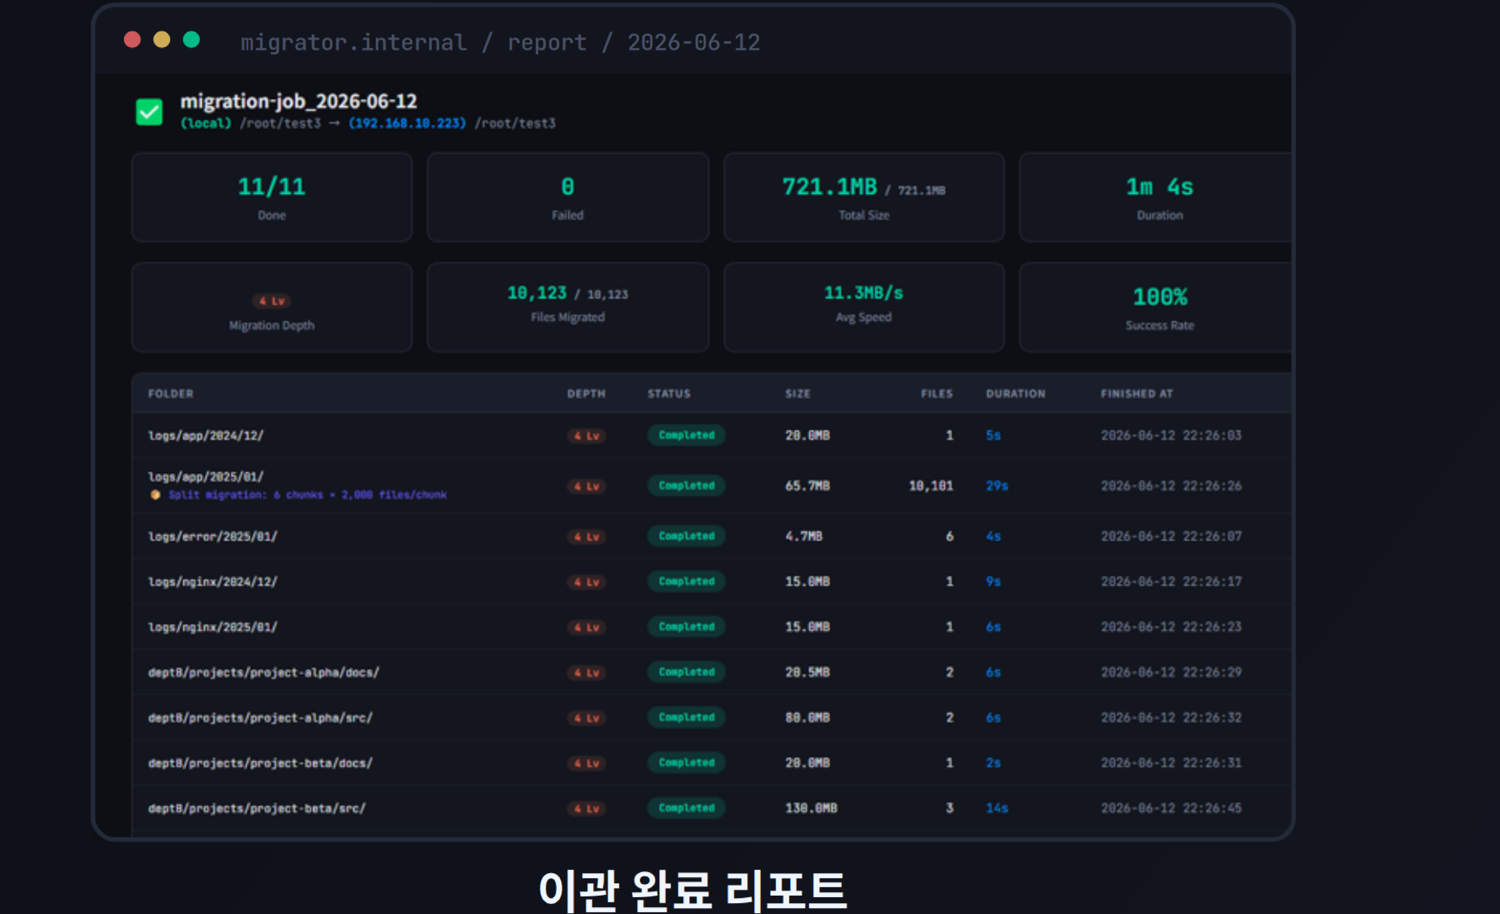
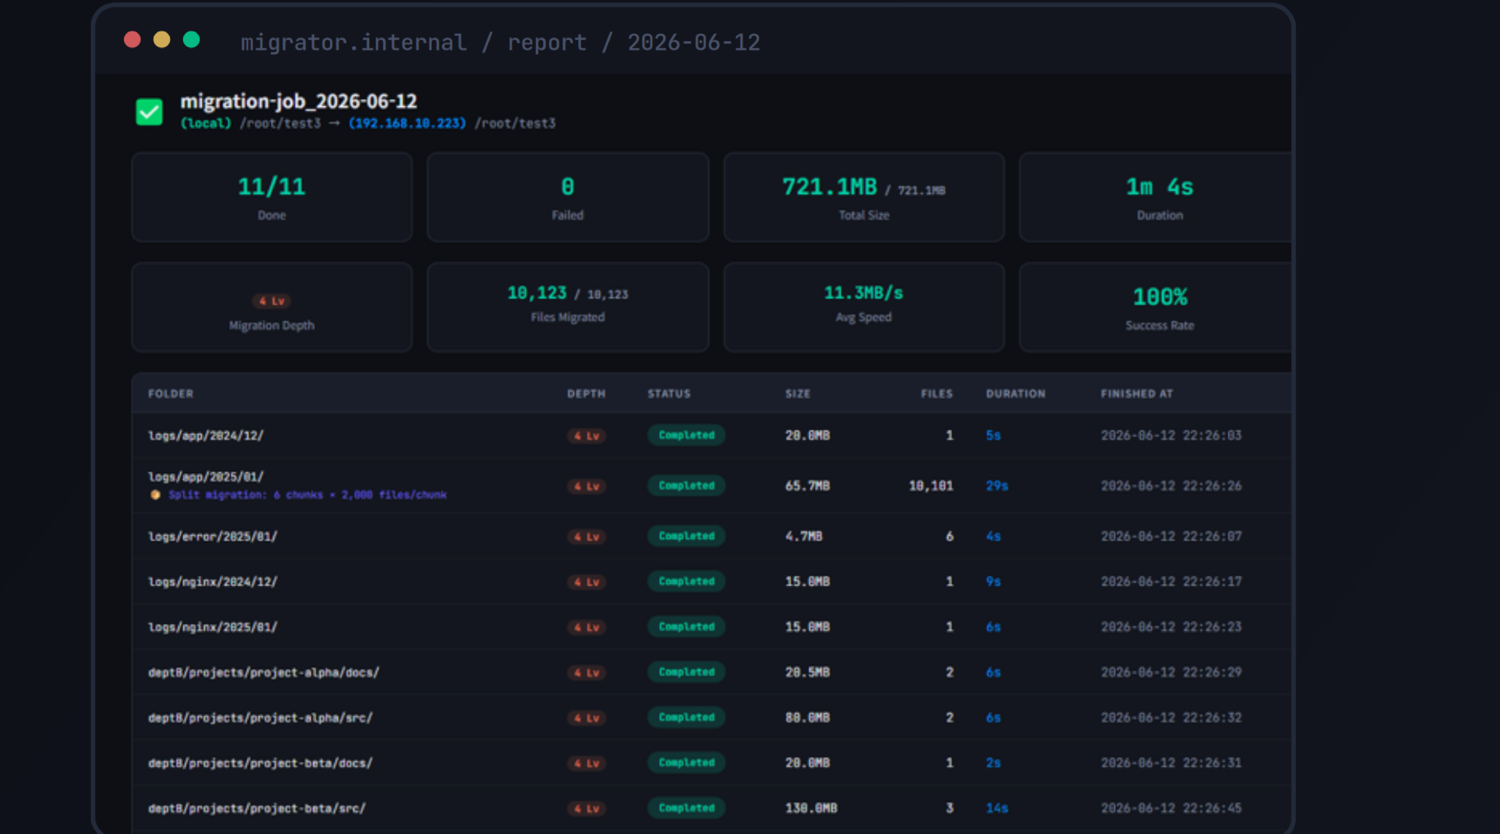
블로그 업데이트
업데이트 2

diff --git a/blog/blog-1-312tb-migration.html b/blog/blog-1-312tb-migration.html
@@ -347,11 +347,12 @@
 
     <figure>
       <img src="./images/report-screenshot.png" alt="이관 완료 리포트 — 폴더별 상태, 소요 시간, 완료 시각까지 자동 기록">
+      <figcaption>이관 완료 리포트 — 폴더별 상태·소요 시간·완료 시각까지 자동 기록</figcaption>
     </figure>
 
     <p>이 결과가 곧 <b>컷오버 여부를 결정하는 근거</b>가 됩니다. "느낌상 다 옮긴 것 같다"가 아니라, 검증된 숫자를 보고 전환 버튼을 누르는 것과 감으로 누르는 것은 완전히 다른 이야기입니다. 이 리포트는 단일 HTML 파일로 자동 생성되기 때문에, 별도 문서 작업 없이 그대로 내부 보고나 감사 자료로 제출할 수 있습니다.</p>
 
-    <h2>재검증도 처음부터 다시 하지 않는다</h2>
+    <h2>재검증도 처음부터 다시 하지 않습니다.</h2>
     <p>마이그레이션 후 "혹시 몰라서 한 번 더 확인해보자"는 요청은 흔한데, 843만 개 파일을 처음부터 다시 스캔하면 그것만으로도 상당한 시간이 걸립니다. 이전 실행에서 계산한 체크섬을 인덱스로 저장해두면, 재검증 시에는 변경된 부분만 다시 계산하면 되기 때문에 거의 즉시 결과를 받을 수 있습니다. 정기 동기화·DR replication처럼 반복적으로 이관·검증을 진행해야 하는 환경에서는 이 차이가 누적되며 체감이 커집니다.</p>
 
     <h2>정리</h2>
